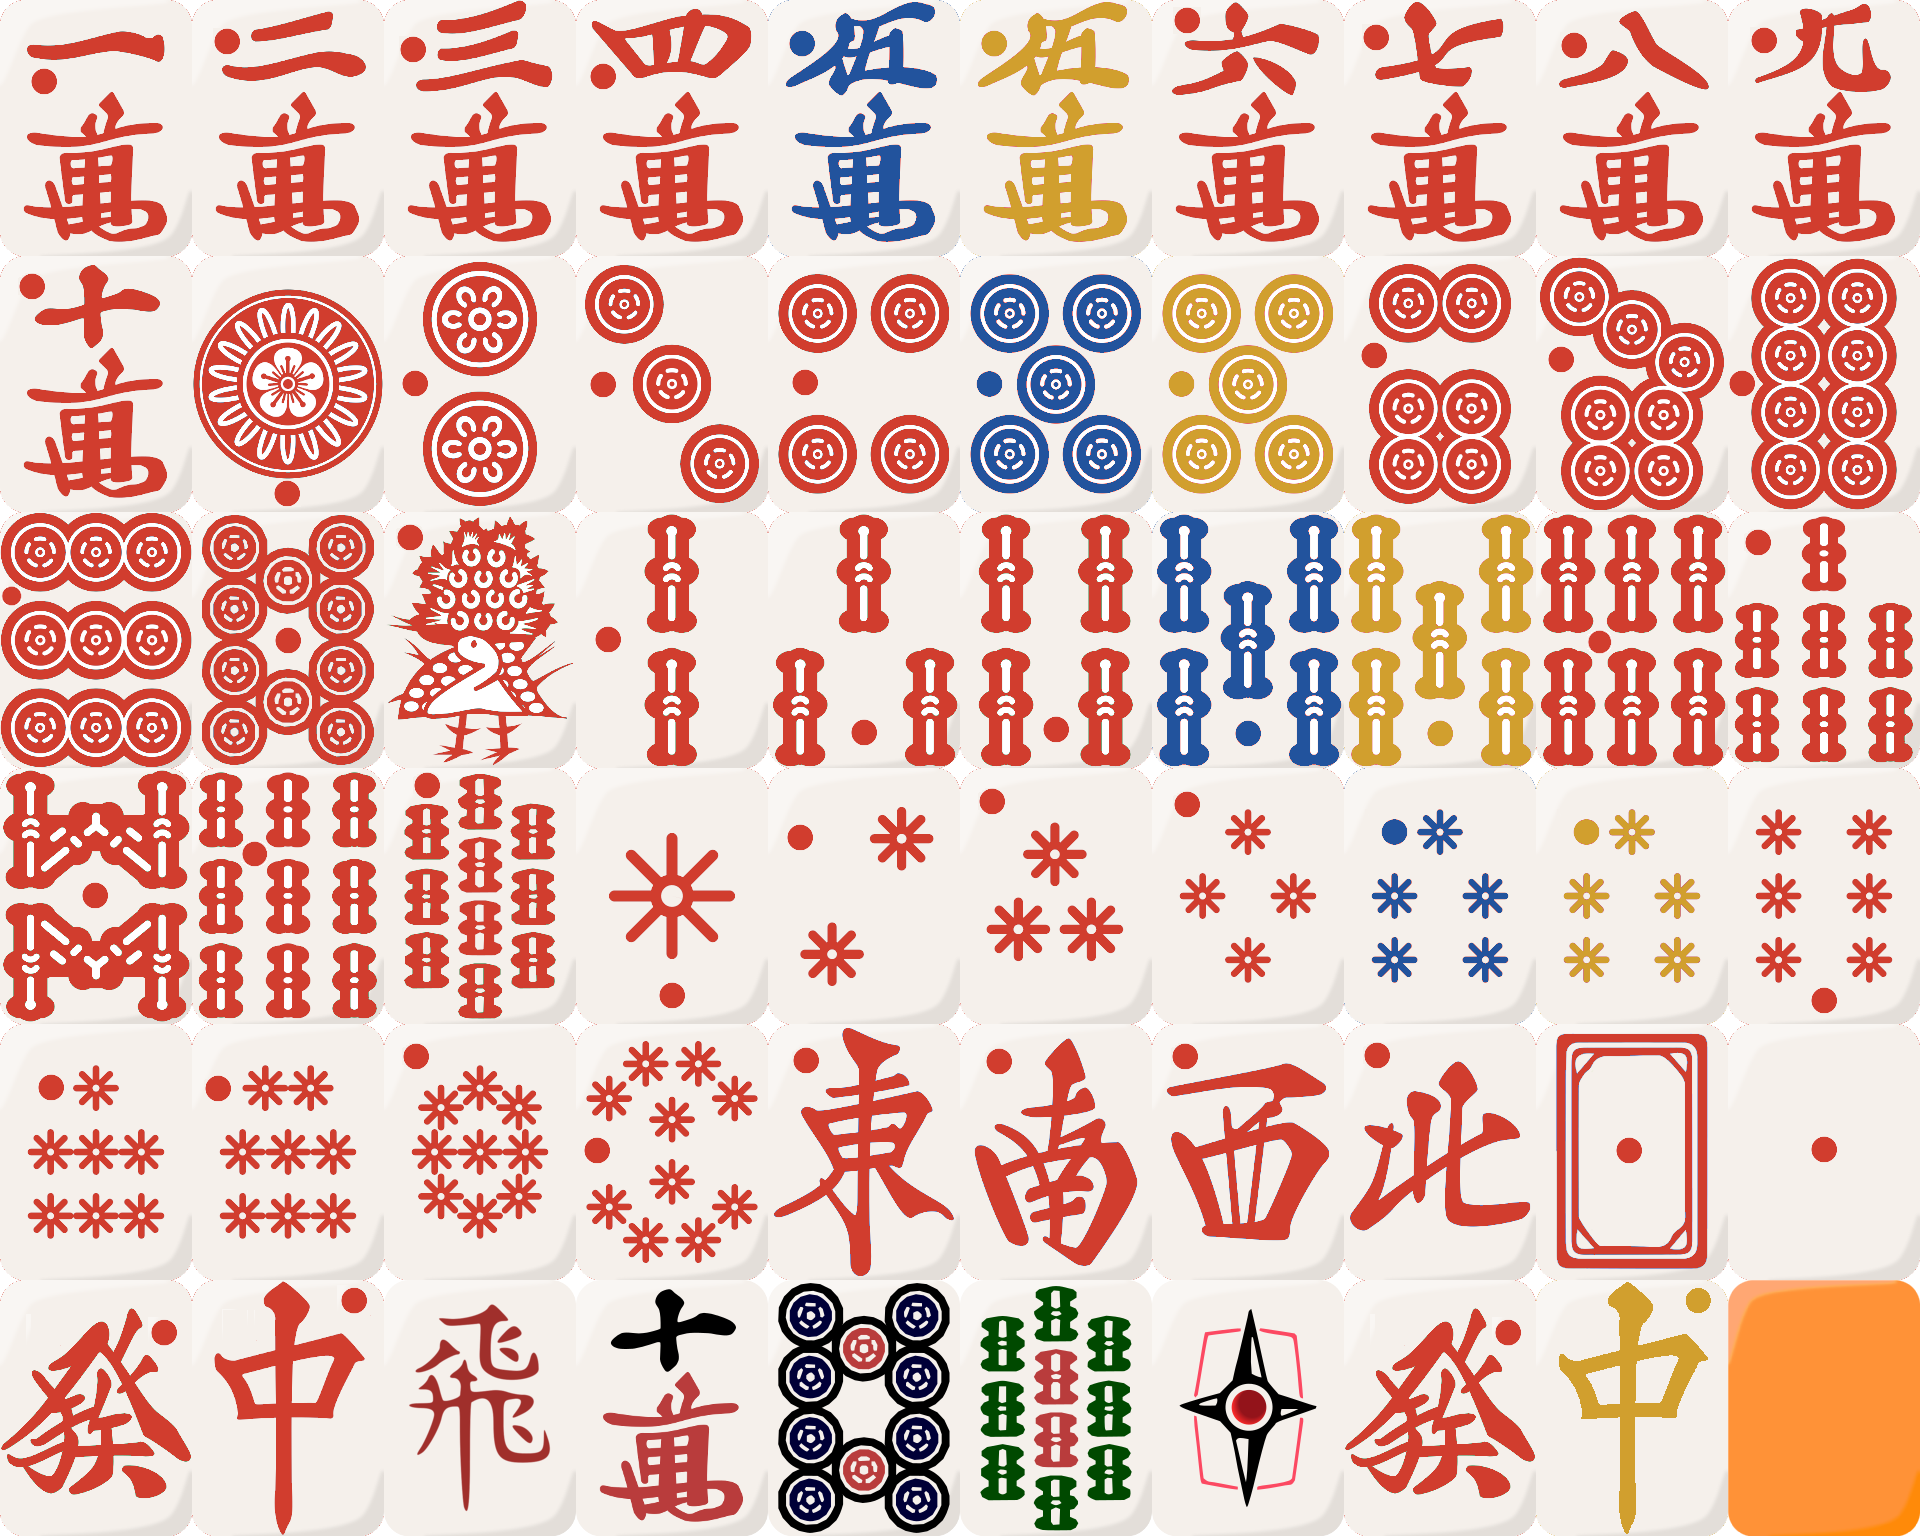
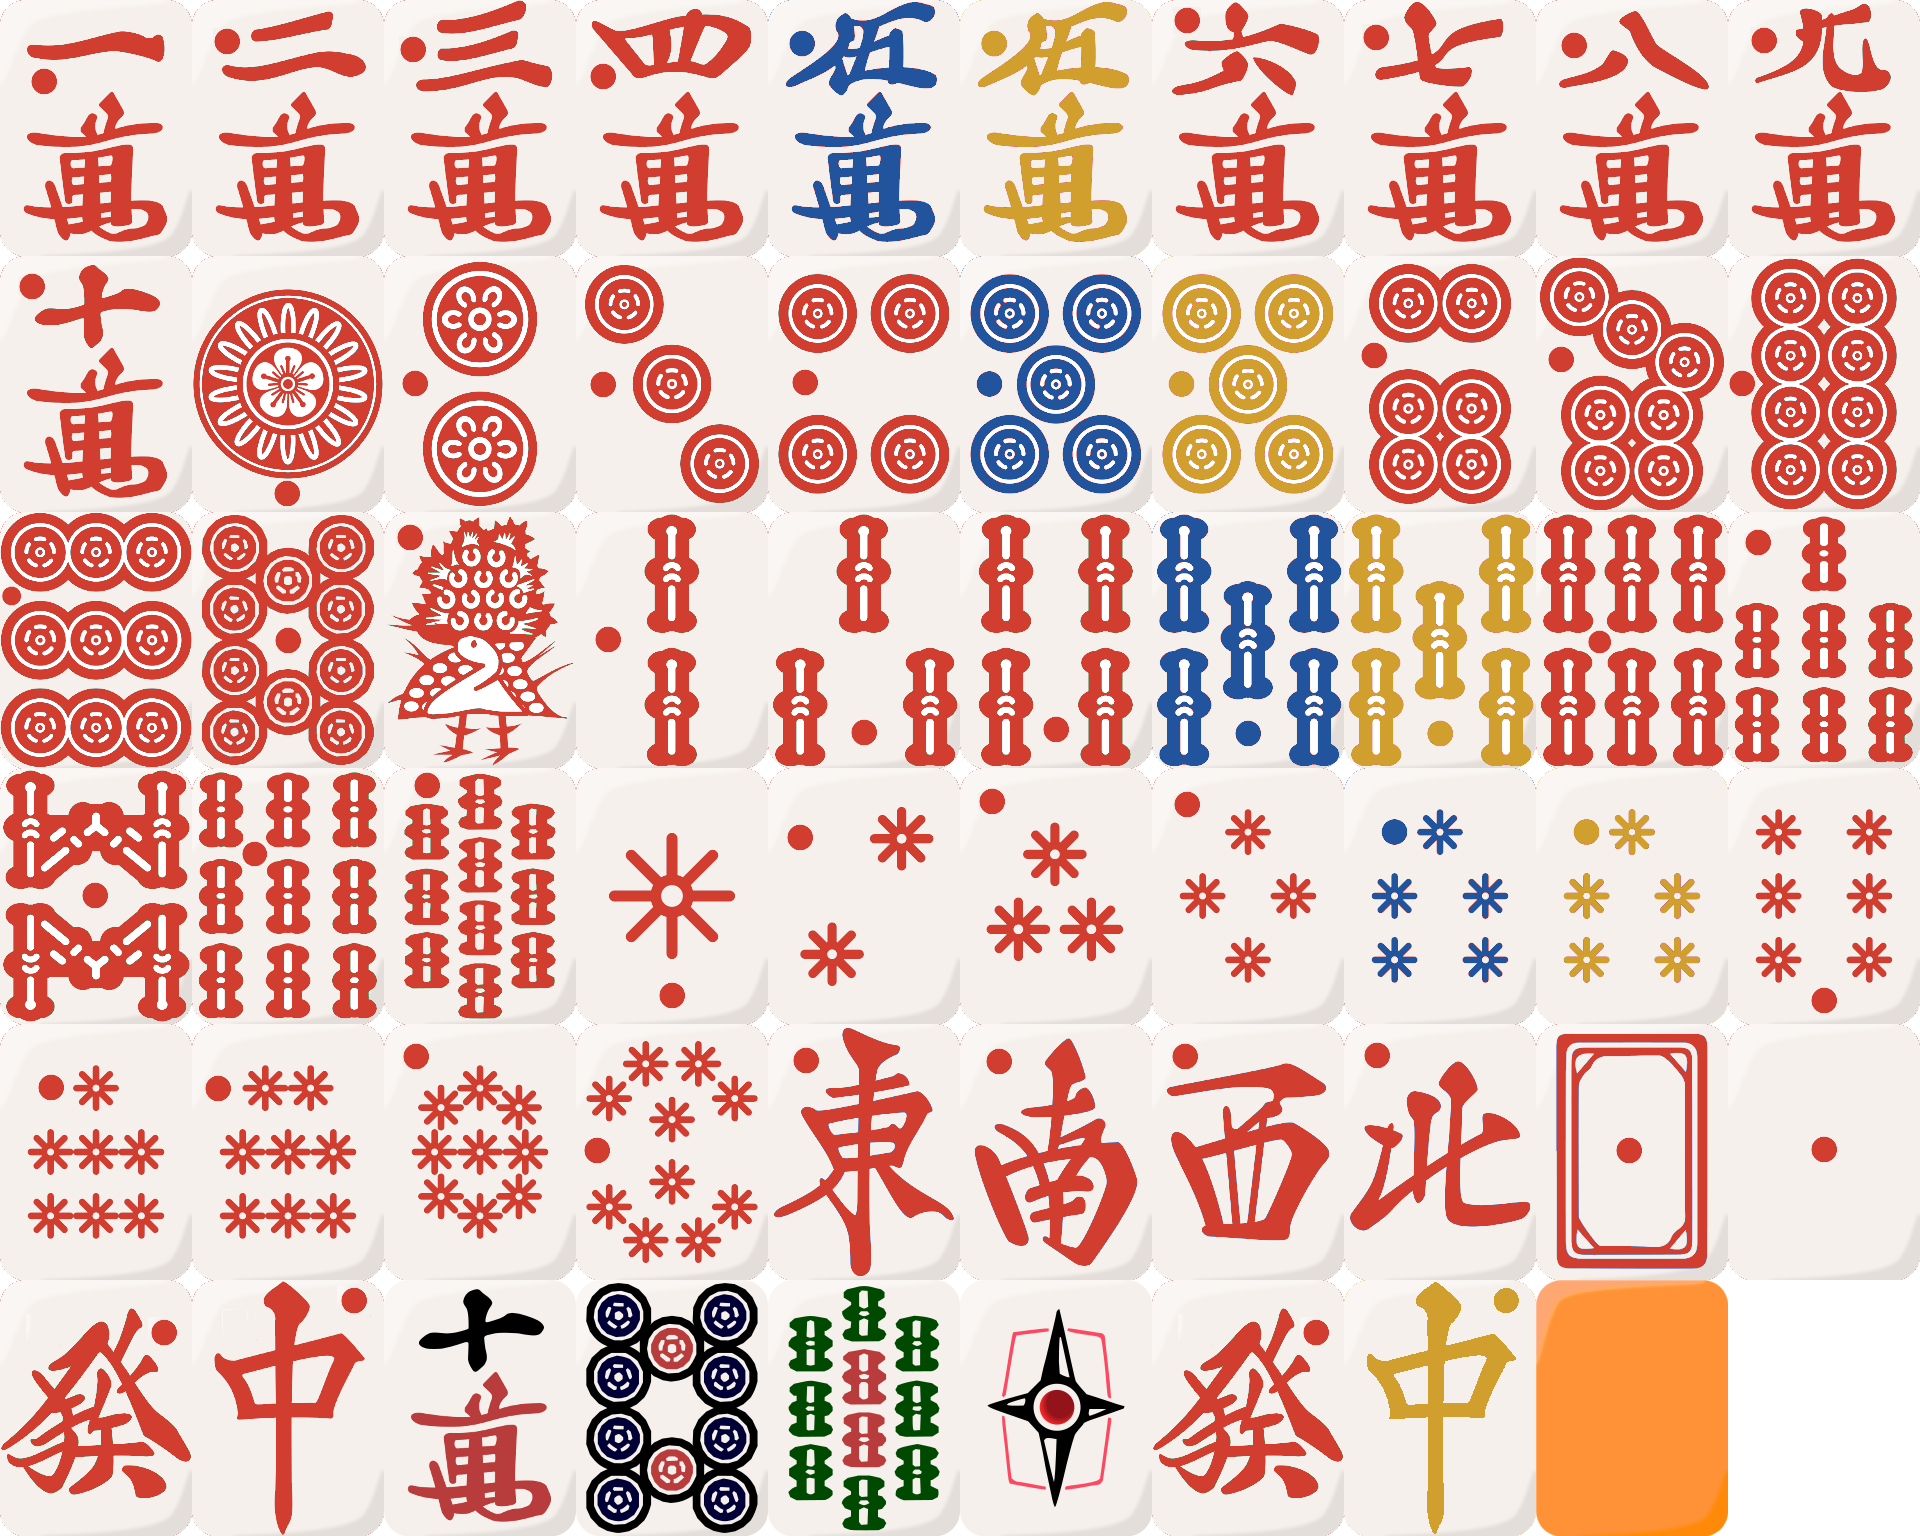
Add all the jokers, and also rename some jokers

Changed region(s): [[0.2188, 0.8125, 1.0, 1.0]]

diff --git a/assets/css/app.css b/assets/css/app.css
@@ -726,7 +726,7 @@ div.tile {
   --tile-width: calc(0.75 * var(--tile-size));
   --tile-height: calc(1 * var(--tile-size));
   --border-width: 0px;
-  --num-tiles: 194;
+  --num-tiles: 215;
   border: var(--border-width) solid var(--tile-back);
   width: var(--tile-width);
   height: var(--tile-height);
@@ -843,15 +843,15 @@ div.tile.\31 y { background-position-y: calc(-51 * var(--tile-size) - var(--bord
 div.tile.\32 y { background-position-y: calc(-52 * var(--tile-size) - var(--border-width)); }
 div.tile.\38 z { background-position-y: calc(-53 * var(--tile-size) - var(--border-width)); }
 div.tile.\31 j { background-position-y: calc(-54 * var(--tile-size) - var(--border-width)); }
-div.tile.\32 j { background-position-y: calc(-55 * var(--tile-size) - var(--border-width)); }
-div.tile.\33 j { background-position-y: calc(-56 * var(--tile-size) - var(--border-width)); }
-div.tile.\34 j { background-position-y: calc(-57 * var(--tile-size) - var(--border-width)); }
-div.tile.\35 j { background-position-y: calc(-58 * var(--tile-size) - var(--border-width)); }
-div.tile.\36 j { background-position-y: calc(-59 * var(--tile-size) - var(--border-width)); }
-div.tile.\37 j { background-position-y: calc(-60 * var(--tile-size) - var(--border-width)); }
-div.tile.\38 j { background-position-y: calc(-61 * var(--tile-size) - var(--border-width)); }
-div.tile.\39 j { background-position-y: calc(-62 * var(--tile-size) - var(--border-width)); }
-div.tile.\31 \30 j { background-position-y: calc(-63 * var(--tile-size) - var(--border-width)); }
+div.tile.\30 j { background-position-y: calc(-55 * var(--tile-size) - var(--border-width)); }
+div.tile.\32 j { background-position-y: calc(-56 * var(--tile-size) - var(--border-width)); }
+div.tile.\33 j { background-position-y: calc(-57 * var(--tile-size) - var(--border-width)); }
+div.tile.\34 j { background-position-y: calc(-58 * var(--tile-size) - var(--border-width)); }
+div.tile.\35 j { background-position-y: calc(-59 * var(--tile-size) - var(--border-width)); }
+div.tile.\36 j { background-position-y: calc(-60 * var(--tile-size) - var(--border-width)); }
+div.tile.\37 j { background-position-y: calc(-61 * var(--tile-size) - var(--border-width)); }
+div.tile.\38 j { background-position-y: calc(-62 * var(--tile-size) - var(--border-width)); }
+div.tile.\39 j { background-position-y: calc(-63 * var(--tile-size) - var(--border-width)); }
 div.tile.\31 k { background-position-y: calc(-64 * var(--tile-size) - var(--border-width)); }
 div.tile.\32 k { background-position-y: calc(-65 * var(--tile-size) - var(--border-width)); }
 div.tile.\33 k { background-position-y: calc(-66 * var(--tile-size) - var(--border-width)); }
@@ -903,14 +903,14 @@ div.tile.\31 \30 s { background-position-y: calc(-111 * var(--tile-size) - var(-
 div.tile.\32 \35 z { background-position-y: calc(-112 * var(--tile-size) - var(--border-width)); }
 div.tile.\32 \36 z { background-position-y: calc(-113 * var(--tile-size) - var(--border-width)); }
 div.tile.\32 \37 z { background-position-y: calc(-114 * var(--tile-size) - var(--border-width)); }
-div.tile.\31 \32 j { background-position-y: calc(-115 * var(--tile-size) - var(--border-width)); }
-div.tile.\31 \33 j { background-position-y: calc(-116 * var(--tile-size) - var(--border-width)); }
-div.tile.\31 \34 j { background-position-y: calc(-57 * var(--tile-size) - var(--border-width)); }
-div.tile.\31 \35 j { background-position-y: calc(-117 * var(--tile-size) - var(--border-width)); }
-div.tile.\31 \36 j { background-position-y: calc(-118 * var(--tile-size) - var(--border-width)); }
-div.tile.\31 \37 j { background-position-y: calc(-60 * var(--tile-size) - var(--border-width)); }
-div.tile.\31 \38 j { background-position-y: calc(-119 * var(--tile-size) - var(--border-width)); }
-div.tile.\31 \39 j { background-position-y: calc(-120 * var(--tile-size) - var(--border-width)); }
+div.tile.\31 \30 j { background-position-y: calc(-115 * var(--tile-size) - var(--border-width)); }
+div.tile.\31 \32 j { background-position-y: calc(-116 * var(--tile-size) - var(--border-width)); }
+div.tile.\31 \33 j { background-position-y: calc(-57 * var(--tile-size) - var(--border-width)); }
+div.tile.\31 \34 j { background-position-y: calc(-117 * var(--tile-size) - var(--border-width)); }
+div.tile.\31 \35 j { background-position-y: calc(-118 * var(--tile-size) - var(--border-width)); }
+div.tile.\31 \36 j { background-position-y: calc(-60 * var(--tile-size) - var(--border-width)); }
+div.tile.\31 \37 j { background-position-y: calc(-119 * var(--tile-size) - var(--border-width)); }
+div.tile.\31 \38 j { background-position-y: calc(-120 * var(--tile-size) - var(--border-width)); }
 div.tile.\30 t { background-position-y: calc(-121 * var(--tile-size) - var(--border-width)); }
 div.tile.\31 t { background-position-y: calc(-122 * var(--tile-size) - var(--border-width)); }
 div.tile.\32 t { background-position-y: calc(-123 * var(--tile-size) - var(--border-width)); }
@@ -987,6 +987,27 @@ div.tile.\30 \30 z { background-position-y: calc(-190 * var(--tile-size) - var(-
 div.tile.\30 \35 z { background-position-y: calc(-191 * var(--tile-size) - var(--border-width)); }
 div.tile.\30 \36 z { background-position-y: calc(-192 * var(--tile-size) - var(--border-width)); }
 div.tile.\30 \37 z { background-position-y: calc(-193 * var(--tile-size) - var(--border-width)); }
+div.tile.\31 \39 j { background-position-y: calc(-194 * var(--tile-size) - var(--border-width)); }
+div.tile.\33 \37 j { background-position-y: calc(-195 * var(--tile-size) - var(--border-width)); }
+div.tile.\34 \36 j { background-position-y: calc(-196 * var(--tile-size) - var(--border-width)); }
+div.tile.\31 \34 \37 j { background-position-y: calc(-197 * var(--tile-size) - var(--border-width)); }
+div.tile.\32 \35 \38 j { background-position-y: calc(-198 * var(--tile-size) - var(--border-width)); }
+div.tile.\33 \36 \39 j { background-position-y: calc(-199 * var(--tile-size) - var(--border-width)); }
+div.tile.\31 \32 \33 j { background-position-y: calc(-200 * var(--tile-size) - var(--border-width)); }
+div.tile.\34 \35 \36 j { background-position-y: calc(-201 * var(--tile-size) - var(--border-width)); }
+div.tile.\37 \38 \39 j { background-position-y: calc(-202 * var(--tile-size) - var(--border-width)); }
+div.tile.\39 \31 j { background-position-y: calc(-203 * var(--tile-size) - var(--border-width)); }
+div.tile.\37 \33 j { background-position-y: calc(-204 * var(--tile-size) - var(--border-width)); }
+div.tile.\36 \34 j { background-position-y: calc(-205 * var(--tile-size) - var(--border-width)); }
+div.tile.\38 \35 \32 j { background-position-y: calc(-206 * var(--tile-size) - var(--border-width)); }
+div.tile.\30 \32 j { background-position-y: calc(-207 * var(--tile-size) - var(--border-width)); }
+div.tile.\31 \31 j { background-position-y: calc(-208 * var(--tile-size) - var(--border-width)); }
+div.tile.\32 \32 j { background-position-y: calc(-209 * var(--tile-size) - var(--border-width)); }
+div.tile.\33 \30 j { background-position-y: calc(-210 * var(--tile-size) - var(--border-width)); }
+div.tile.\33 \31 j { background-position-y: calc(-211 * var(--tile-size) - var(--border-width)); }
+div.tile.\33 \32 j { background-position-y: calc(-212 * var(--tile-size) - var(--border-width)); }
+div.tile.\33 \33 j { background-position-y: calc(-213 * var(--tile-size) - var(--border-width)); }
+div.tile.\33 \34 j { background-position-y: calc(-214 * var(--tile-size) - var(--border-width)); }
 div.tile.\32 x { visibility: hidden; } /* blank space */
 div.tile.\33 x { visibility: hidden; width: calc(0.5 * var(--tile-width)); } /* half blank space */
 div.tile.\34 x { display: none; } /* fully invisible tile */

diff --git a/documentation/tiles.md b/documentation/tiles.md
@@ -23,8 +23,11 @@ This document is a reference for all of the tiles currently supported in the til
 
 ![](tile_reference3.png)
 
-- `1j`, `2j`, `3j`, `4j`, `5j`, `6j`, `7j`, `8j`
-- `9j`, `10j`, `12j`, `13j`, `15j`, `16j`, `18j`, `19j`
+- `1j`, `0j`, `2j`, `3j`, `4j`, `5j`, `6j`, `7j`,
+- `8j`, `9j`, `10j`, `12j`, `14j`, `15j`, `17j`, `18j`,
+- `19j`, `37j`, `46j`, `147j`, `258j`, `369j`, `123j`, `456j`,
+- `789j`, `91j`, `73j`, `64j`, `852j`, `02j`, `11j`, `22j`,
+- `30j`, `31j`, `32j`, `33j`, `34j`, `2y`
 
 ## Star and Galaxy tiles
 
@@ -37,7 +40,7 @@ This document is a reference for all of the tiles currently supported in the til
 - `11t`, `12t`, `13t`, `14t`, `15t`, `16t`, `17t`, `18t`, `19t`, `110t`
 - `11z`, `12z`, `13z`, `14z`, `15z`, `16z`, `17z`, `0t`
 
-## Aka and other
+## Aka
 
 ![](tile_reference5.png)
 
@@ -46,4 +49,10 @@ This document is a reference for all of the tiles currently supported in the til
 - `09p`, `010p`, `01s`, `02s`, `03s`, `04s`, `25s`, `35s`, `06s`, `07s`
 - `08s`, `09s`, `010s`, `01t`, `02t`, `03t`, `04t`, `25t`, `35t`, `06t`
 - `07t`, `08t`, `09t`, `010t`, `01z`, `02z`, `03z`, `04z`, `00z`, `05z`
-- `06z`, `07z`, `2y`, `10m`, `10p`, `10s`, `25z`, `26z`, `27z`, `1x`
+- `06z`, `07z`
+
+## Other
+
+![](tile_reference6.png)
+
+- `10m`, `10p`, `10s`, `25z`, `26z`, `27z`, `1x`, `2x` (tile-width space), `3x` (half-width space), `4x` (zero-width space)
